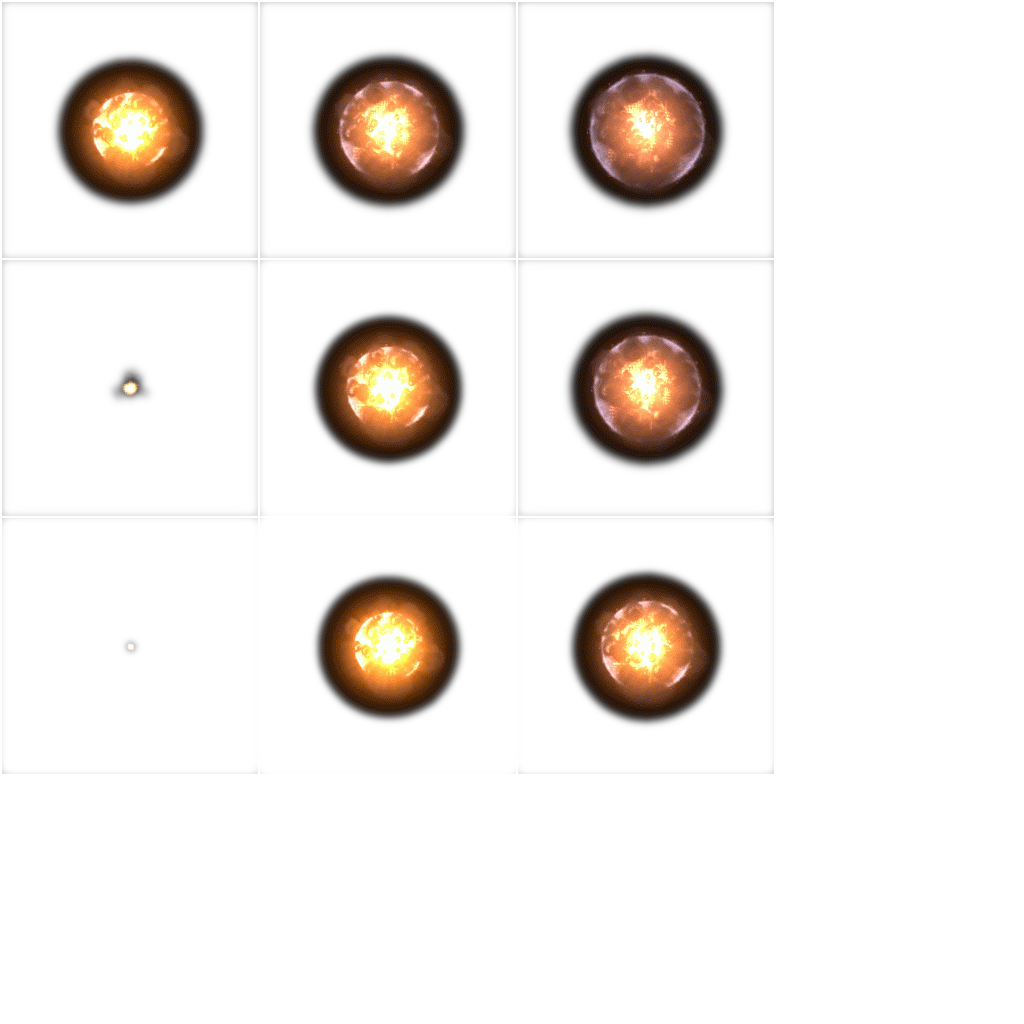
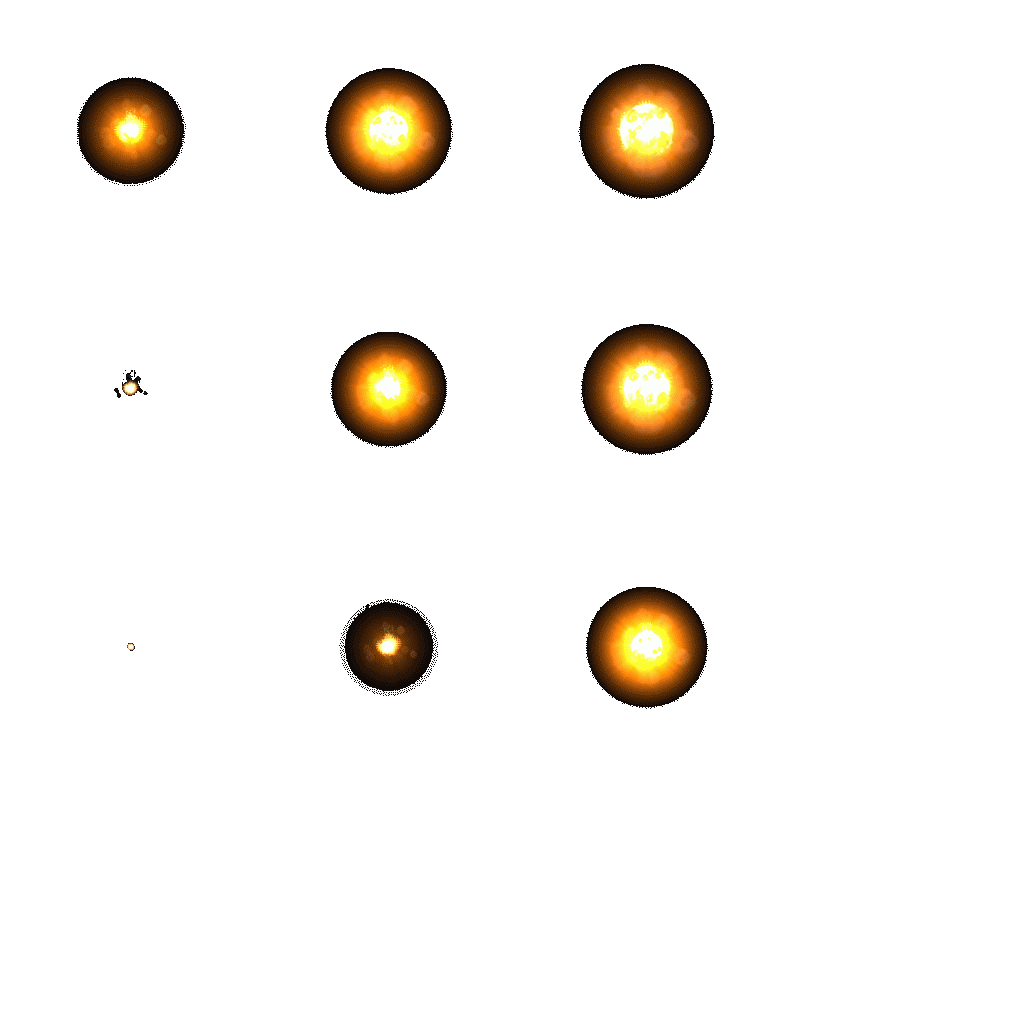
Scoring optimizations

diff --git a/ChampionsField/core/src/States/PlayState.java b/ChampionsField/core/src/States/PlayState.java
@@ -33,27 +33,30 @@ import logic.Rain;
 
 public class PlayState extends State implements ApplicationListener{
     //Objects textures
+    private TextureAtlas explosionAtlas;
+    private Animation explosionAnimation;
     private Texture rainTexture;
     private TextureAtlas ballTexture;
     private Animation ballAnimation;
     private Texture fieldTexture;
     private Texture homeTeamTexture;
     private Texture visitorTeamTexture;
-    private Texture footballGoalTexture;
-    private Texture goalTexture;
+    private Texture leftGoalTexture;
+    private Texture rightGoalTexture;
     private BitmapFont font;
 
     private Rain rain;
 
     private float deltaTime = 0;
     private float startController;
-    private boolean scored;
+    public boolean scored;
+    private float scoreAnimationTime;
 
-    static final float WORLD_TO_BOX = 0.01f;
-    static final float BOX_TO_WORLD = 100f;
     static final float TIME_TO_START = 3;
     static final float GAME_SIMULATION_SPEED = 1 / 60f;
     static final float PLAYERS_SPEED = 5;
+    static final float EXPLOSION_SPEED = 5f;
+    static final float EXPLOSION_DURATION = 2.4f;
 
     //Match class init
     private Match match;
@@ -62,7 +65,6 @@ public class PlayState extends State implements ApplicationListener{
     private OrthographicCamera camera;
     private World world;
     private Box2DDebugRenderer debugRenderer;
-    private Matrix4 debugMatrix;
 
     //Touchpad
     private Stage stage;
@@ -97,13 +99,15 @@ public class PlayState extends State implements ApplicationListener{
         }
 
         //Textures definition
+        explosionAtlas = new TextureAtlas("Explosion.atlas");
+        explosionAnimation = new Animation(1 / 4f, explosionAtlas.getRegions());
         ballTexture = new TextureAtlas("SoccerBall.atlas");
         ballAnimation = new Animation(1 / 15f, ballTexture.getRegions());
         fieldTexture = new Texture("Field.jpg");
         homeTeamTexture = new Texture("Player.png");
         visitorTeamTexture = new Texture("Player.png");
-        footballGoalTexture = new Texture("FootballGoal.png");
-        goalTexture = new Texture("FootballGoal.png");
+        leftGoalTexture = new Texture("LeftGoal.png");
+        rightGoalTexture = new Texture("RightGoal.png");
         rainTexture = new Texture("Rain.png");
         rain = new Rain(width, height);
         font = new BitmapFont();
@@ -123,6 +127,7 @@ public class PlayState extends State implements ApplicationListener{
 
         startController = 0;
         scored = false;
+        scoreAnimationTime = 0;
     }
 
     private void createCollisionListener() {
@@ -165,8 +170,7 @@ public class PlayState extends State implements ApplicationListener{
 
     @Override
     public void resize(int width, int height) {
-        camera.viewportHeight = (Gdx.graphics.getWidth() * 0.01f / width) * height;
-        camera.update();
+
     }
 
     @Override
@@ -196,8 +200,6 @@ public class PlayState extends State implements ApplicationListener{
 
     @Override
     public void update(float dt) {
-        deltaTime += Gdx.graphics.getDeltaTime();
-
         if(startController >= TIME_TO_START)
             match.deactivateBarriers();
         else
@@ -211,10 +213,7 @@ public class PlayState extends State implements ApplicationListener{
         rain.update();
         world.step(GAME_SIMULATION_SPEED, 6, 2);
 
-        if(scored) {
-            match.stopAllPlayersMotion();
-            scored = false;
-        }
+        deltaTime += dt;
     }
 
 
@@ -246,10 +245,6 @@ public class PlayState extends State implements ApplicationListener{
             font.draw(sb, visitorTeamPlayers.get(i).getName(), screenPosition.x + radius - 15/2, screenPosition.y + radius+ 15/2);
         }
 
-        Goal g = match.getVisitorTeamGoal();
-        screenPosition = convertToScreenCoordinates(g);
-        sb.draw(footballGoalTexture, screenPosition.x, screenPosition.y, g.getHorizontalLength() * 100f, g.getVerticalLength() * 100f);
-
         Player controPlayer = null;
         for(int i = 0; i < homeTeamPlayers.size(); i++) {
             if(homeTeamPlayers.get(i).isControlledPlayer()) {
@@ -264,12 +259,22 @@ public class PlayState extends State implements ApplicationListener{
         font.draw(sb, Integer.toString(match.getScoreHomeTeam()), width / 4, height - height / 6);
         font.draw(sb, Integer.toString(match.getScoreVisitorTeam()), width - width / 4, height - height / 6);
 
-        float percentageFieldX = 45 * 100 / 2560;
-        float x = percentageFieldX * Gdx.graphics.getWidth() / 100;
-        float percentageGoalY = 550 * 100 / 1600;
-        float goalY = percentageGoalY * Gdx.graphics.getHeight() / 100;
+        /*float goalX = -Gdx.graphics.getWidth()/2 + 30f * (Gdx.graphics.getWidth() / Match.FIELD_TEXTURE_WIDTH);
+        float goalY = 500f * (Gdx.graphics.getHeight() / Match.FIELD_TEXTURE_HEIGHT);
+        sb.draw(leftGoalTexture, width / 2 + goalX, height / 2 - goalY / 2, width / 2 + goalX + 300, (height / 2 - goalY / 2) * 2);*/
 
-        sb.draw(goalTexture, x, height - goalY, 100, 100);
+        if(scored) {
+            if(scoreAnimationTime >= EXPLOSION_DURATION) {
+                scored = false;
+                scoreAnimationTime = 0;
+                match.stopAllPlayersMotion();
+                startController = 0;
+                match.activateBarriers();
+            } else {
+                sb.draw(explosionAnimation.getKeyFrame(scoreAnimationTime * EXPLOSION_SPEED, true), 10, height / 2, width / 4, height / 3);
+                scoreAnimationTime += Gdx.graphics.getDeltaTime();
+            }
+        }
 
         for(int i = 0; i < rain.getRainSize(); i++)
             sb.draw(rainTexture, rain.getPosition(i).x, rain.getPosition(i).y, width / 3, height / 3);

diff --git a/ChampionsField/core/src/logic/Goal.java b/ChampionsField/core/src/logic/Goal.java
@@ -24,8 +24,6 @@ public class Goal {
         position = new Vector2(xPosition * 0.01f , yPosition * 0.01f );
         this.verticalLength = verticalLength * 0.01f;
         this.horizontalLength = horizontalLength * 0.01f;
-        float width = Gdx.graphics.getWidth() * 0.01f;
-        float height = Gdx.graphics.getHeight() * 0.01f;
 
         if(whichTeam.equals("VisitorGoal"))
             this.horizontalLength *= -1;
@@ -46,9 +44,9 @@ public class Goal {
         //User data is to identify the goal collision
         EdgeShape goalTrigger = new EdgeShape();
         if(whichTeam.equals("VisitorGoal"))
-            goalTrigger.set(this.horizontalLength + Match.BALL_SIZE * 0.01f, this.verticalLength/2, this.horizontalLength + Match.BALL_SIZE * 0.01f, -this.verticalLength/2);
+            goalTrigger.set(this.horizontalLength + ((Match.BALL_SIZE * 100 / 1920) * Gdx.graphics.getWidth() / 100) * 0.01f, this.verticalLength/2, this.horizontalLength +((Match.BALL_SIZE * 100 / 1920) * Gdx.graphics.getWidth() / 100) * 0.01f, -this.verticalLength/2);
         else
-            goalTrigger.set(this.horizontalLength - Match.BALL_SIZE * 0.01f, this.verticalLength/2, this.horizontalLength - Match.BALL_SIZE * 0.01f, -this.verticalLength/2);
+            goalTrigger.set(this.horizontalLength - ((Match.BALL_SIZE * 100 / 1920) * Gdx.graphics.getWidth() / 100) * 0.01f, this.verticalLength/2, this.horizontalLength - ((Match.BALL_SIZE * 100 / 1920) * Gdx.graphics.getWidth() / 100) * 0.01f, -this.verticalLength/2);
 
         FixtureDef fixtureDef = new FixtureDef();
         fixtureDef.filter.categoryBits = GoalMask.getMask();

diff --git a/ChampionsField/core/src/logic/Match.java b/ChampionsField/core/src/logic/Match.java
@@ -5,12 +5,14 @@ import com.badlogic.gdx.physics.box2d.World;
 
 import java.util.Random;
 
+import States.PlayState;
+
 public class Match{
 
     static final float BALL_SIZE = 48;
     static final float PLAYER_SIZE = 60;
-    static final float FIELD_TEXTURE_WIDTH = 2560;
-    static final float FIELD_TEXTURE_HEIGHT = 1600;
+    public static final float FIELD_TEXTURE_WIDTH = 2560;
+    public static final float FIELD_TEXTURE_HEIGHT = 1600;
 
     public enum entityMasks{
         BallMask(1),
@@ -74,10 +76,6 @@ public class Match{
 
     public void teamScored(Team t, World w) {
         t.goalScored();
-        float deltaTime = 0;
-
-        /*while(deltaTime <= 3)
-            deltaTime += Gdx.graphics.getDeltaTime();*/
 
         homeTeam.repositionTeam();
         //visitorTeam.repositionTeam();
@@ -85,11 +83,15 @@ public class Match{
 
     public void stopAllPlayersMotion() {
         homeTeam.stopTeamMotion();
-        //visitorTeam.stopTeamMotion();
+        visitorTeam.stopTeamMotion();
     }
 
     public void deactivateBarriers() {
         field.deactivateBarriers();
+    }
+
+    public void activateBarriers() {
+        field.activateBarriers();
     }
 
     public Ball getBall(){

diff --git a/ChampionsField/core/src/logic/Field.java b/ChampionsField/core/src/logic/Field.java
@@ -168,14 +168,8 @@ public class Field {
         rightBarrier.setActive(false);
     }
 
-    public Vector<Body> getBodies(){
-        Vector<Body> bodies = new Vector<Body>();
-        bodies.add(northBorder);
-        bodies.add(southBorder);
-        bodies.add(eastBorder);
-        bodies.add(southBorder);
-
-        bodies.add(topLine);
-        return bodies;
+    public void activateBarriers() {
+        leftBarrier.setActive(true);
+        rightBarrier.setActive(true);
     }
 }

diff --git a/ChampionsField/core/src/logic/Ball.java b/ChampionsField/core/src/logic/Ball.java
@@ -23,7 +23,7 @@ public class Ball{
     Body body;
 
     public Ball(float xPosition, float yPosition, float size, World w){
-        position = new Vector2(-Gdx.graphics.getWidth() / 4f * 0.01f, yPosition * 0.01f);
+        position = new Vector2(-Gdx.graphics.getWidth() / 3f * 0.01f, yPosition * 0.01f);
         speed = 0;
         radius = size / 2;
 
